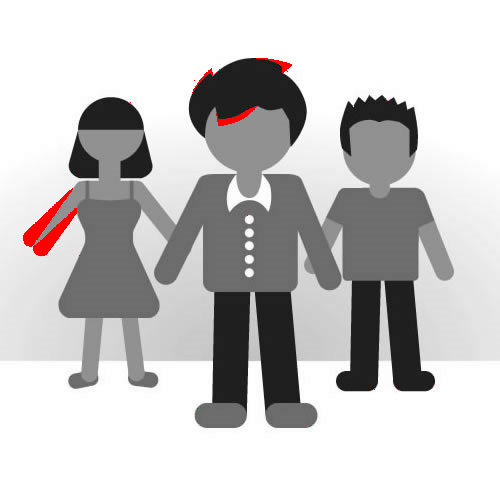
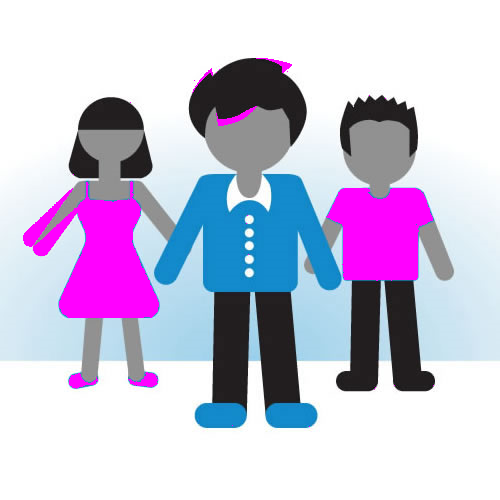
fixed clamp of mix t

diff --git a/test/ImageDiffTest/Program.cs b/test/ImageDiffTest/Program.cs
@@ -24,18 +24,18 @@ namespace ImageDiffTest
       DiffResult result = new DiffResult();
       Stopwatch perf = new Stopwatch();
       perf.Start();
-      for (int i = 0; i < iterationCount; i++)
+      for (int i = 0; i < iterationCount && i<1; i++)
       {
         result.Dispose();
         result = ImageDiff.Binding.Diff(leftImg, rightImg,
           new DiffOptions()
           {
-            ErrorColor = Color.FromArgb(255, 255, 0, 0),
+            ErrorColor = Color.FromArgb(255, 255, 0, 255),
             Tolerance = 0.2f,
             OverlayTransparency = 1.0f,
-            OverlayType = OverlayType.Flat,
+            OverlayType = OverlayType.Movement,
             WeightByDiffPercentage = false,
-            IgnoreColor = true
+            IgnoreColor = false
           });
       }
       perf.Stop();
@@ -45,7 +45,6 @@ namespace ImageDiffTest
       Console.WriteLine(msPerPixel * 1000 + " ns per pixel.");
       result.Image.Save(diff);
       result.Dispose();
-      Console.ReadLine();
     }
   }
 }

diff --git a/src/imgdiff_main.cpp b/src/imgdiff_main.cpp
@@ -261,7 +261,8 @@ extern "C" {
         }
 
         auto isdiff = _mm_cmpgt_ps(distance, tolerance);
-        t = _mm_max_ps(one, _mm_min_ps(zero, t));
+
+        t = _mm_min_ps(one, _mm_max_ps(zero, t));
         auto mlr = rr;
         auto mlg = rg;
         auto mlb = rb;
@@ -277,7 +278,7 @@ extern "C" {
         auto oneMinusT = _mm_sub_ps(one, t);
 
         auto mixedR = _mm_add_ps(_mm_mul_ps(mlr, oneMinusT), _mm_mul_ps(er, t));
-        auto mixedG = _mm_add_ps(_mm_mul_ps(mlr, oneMinusT), _mm_mul_ps(eg, t));
+        auto mixedG = _mm_add_ps(_mm_mul_ps(mlg, oneMinusT), _mm_mul_ps(eg, t));
         auto mixedB = _mm_add_ps(_mm_mul_ps(mlb, oneMinusT), _mm_mul_ps(eb, t));
         auto mixedA = one;
 
